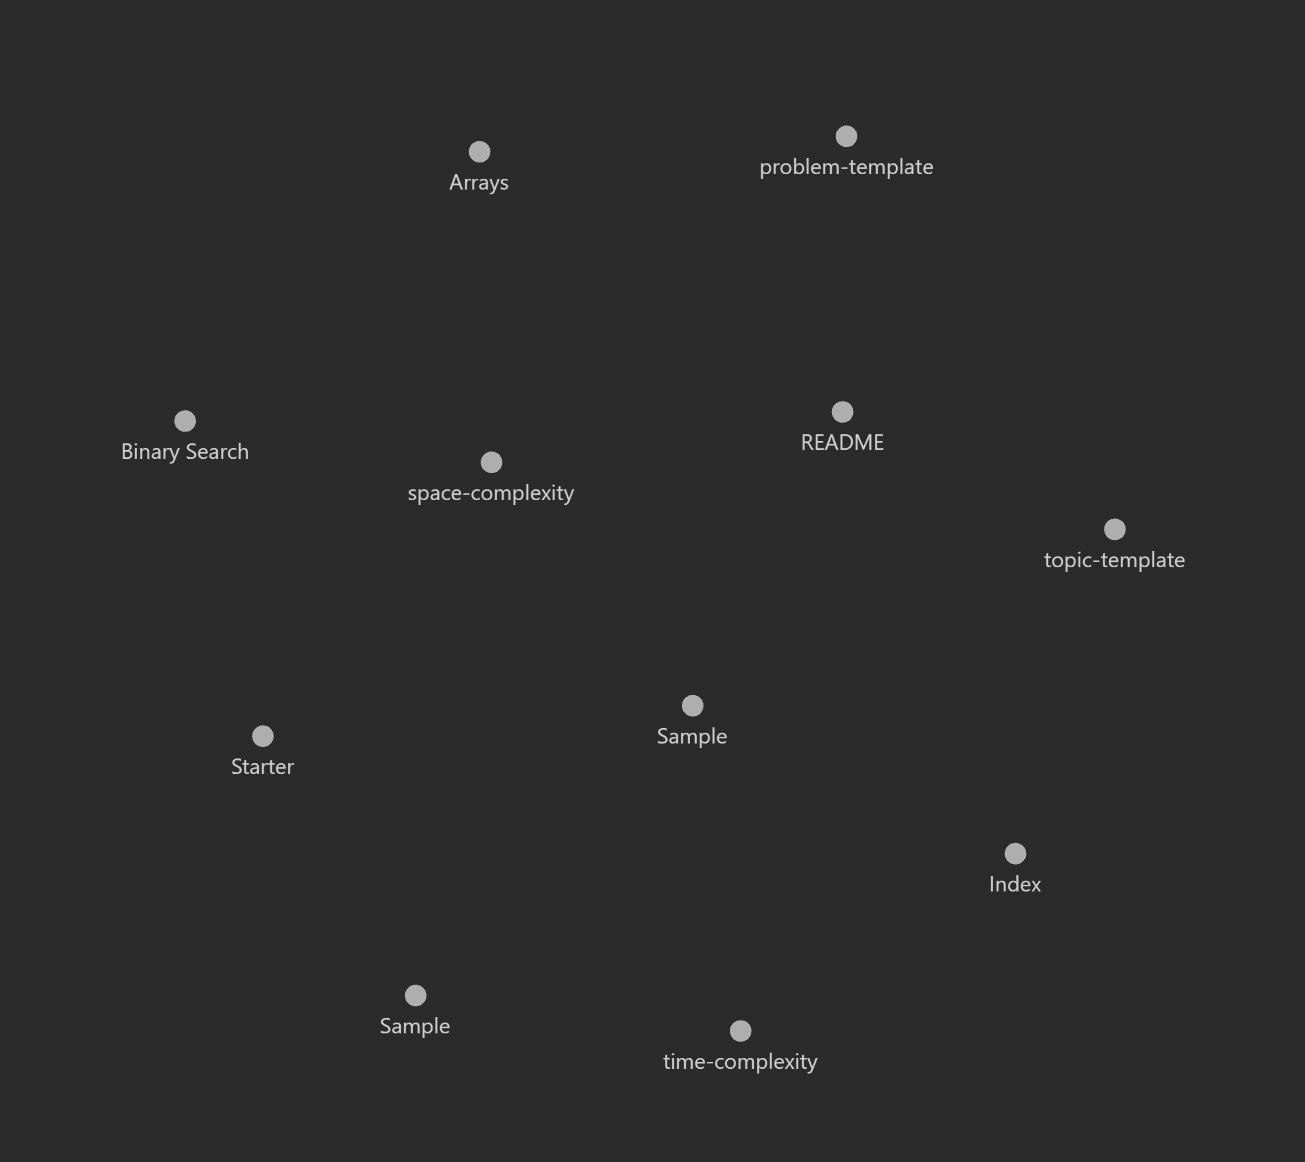
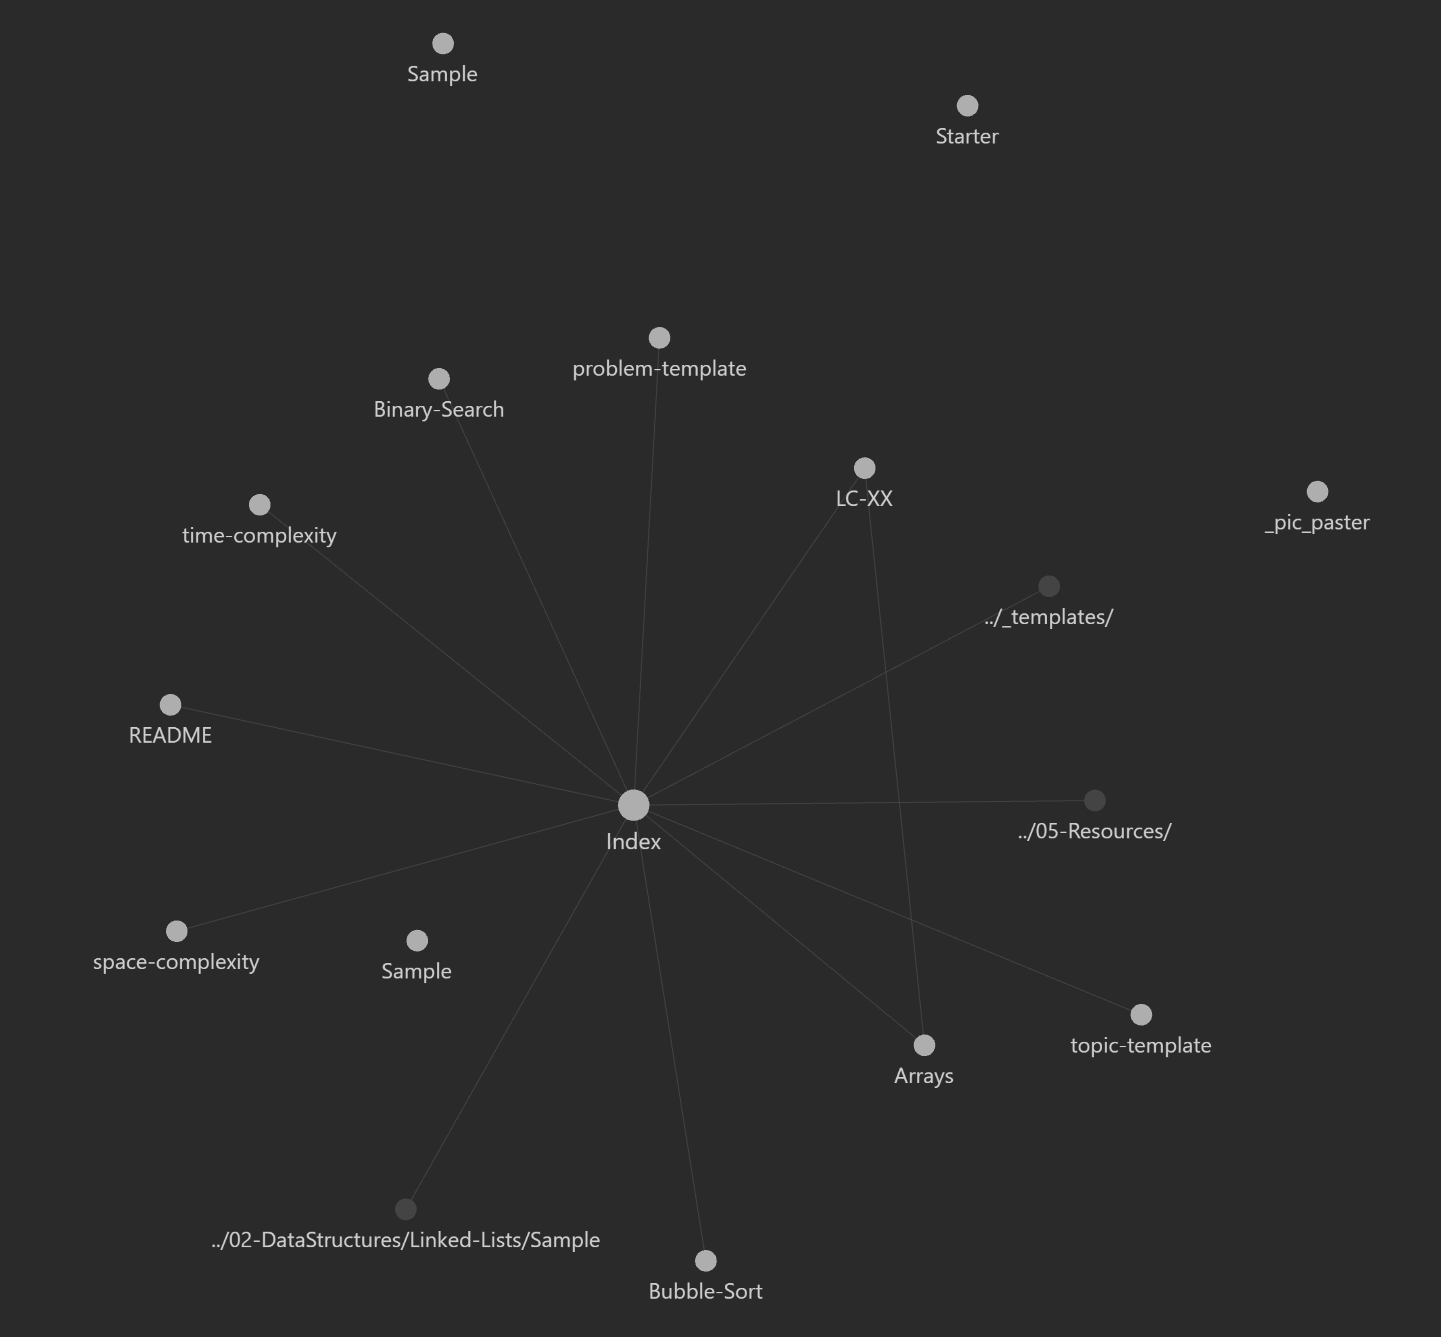
M 04-Misc/_pic_paster.md 04-Misc/zassets/a.png README.md on 02-23-2025 13:16
Affected files:
04-Misc/_pic_paster.md
04-Misc/zassets/a.png
README.md

diff --git a/README.md b/README.md
@@ -13,4 +13,5 @@ My DSA study notes organized in Obsidian MD, synced with GitHub repo for easy ac
   
 ## Knowledge Graph
 
-![DSA Knowledge Graph|450](/04-Misc/zassets/a.png)
+![[/04-Misc/zassets/a.png]]
+

diff --git a/04-Misc/_pic_paster.md b/04-Misc/_pic_paster.md
@@ -1,1 +1,4 @@
 ![[a.png]]
+
+
+![[a.png]]
